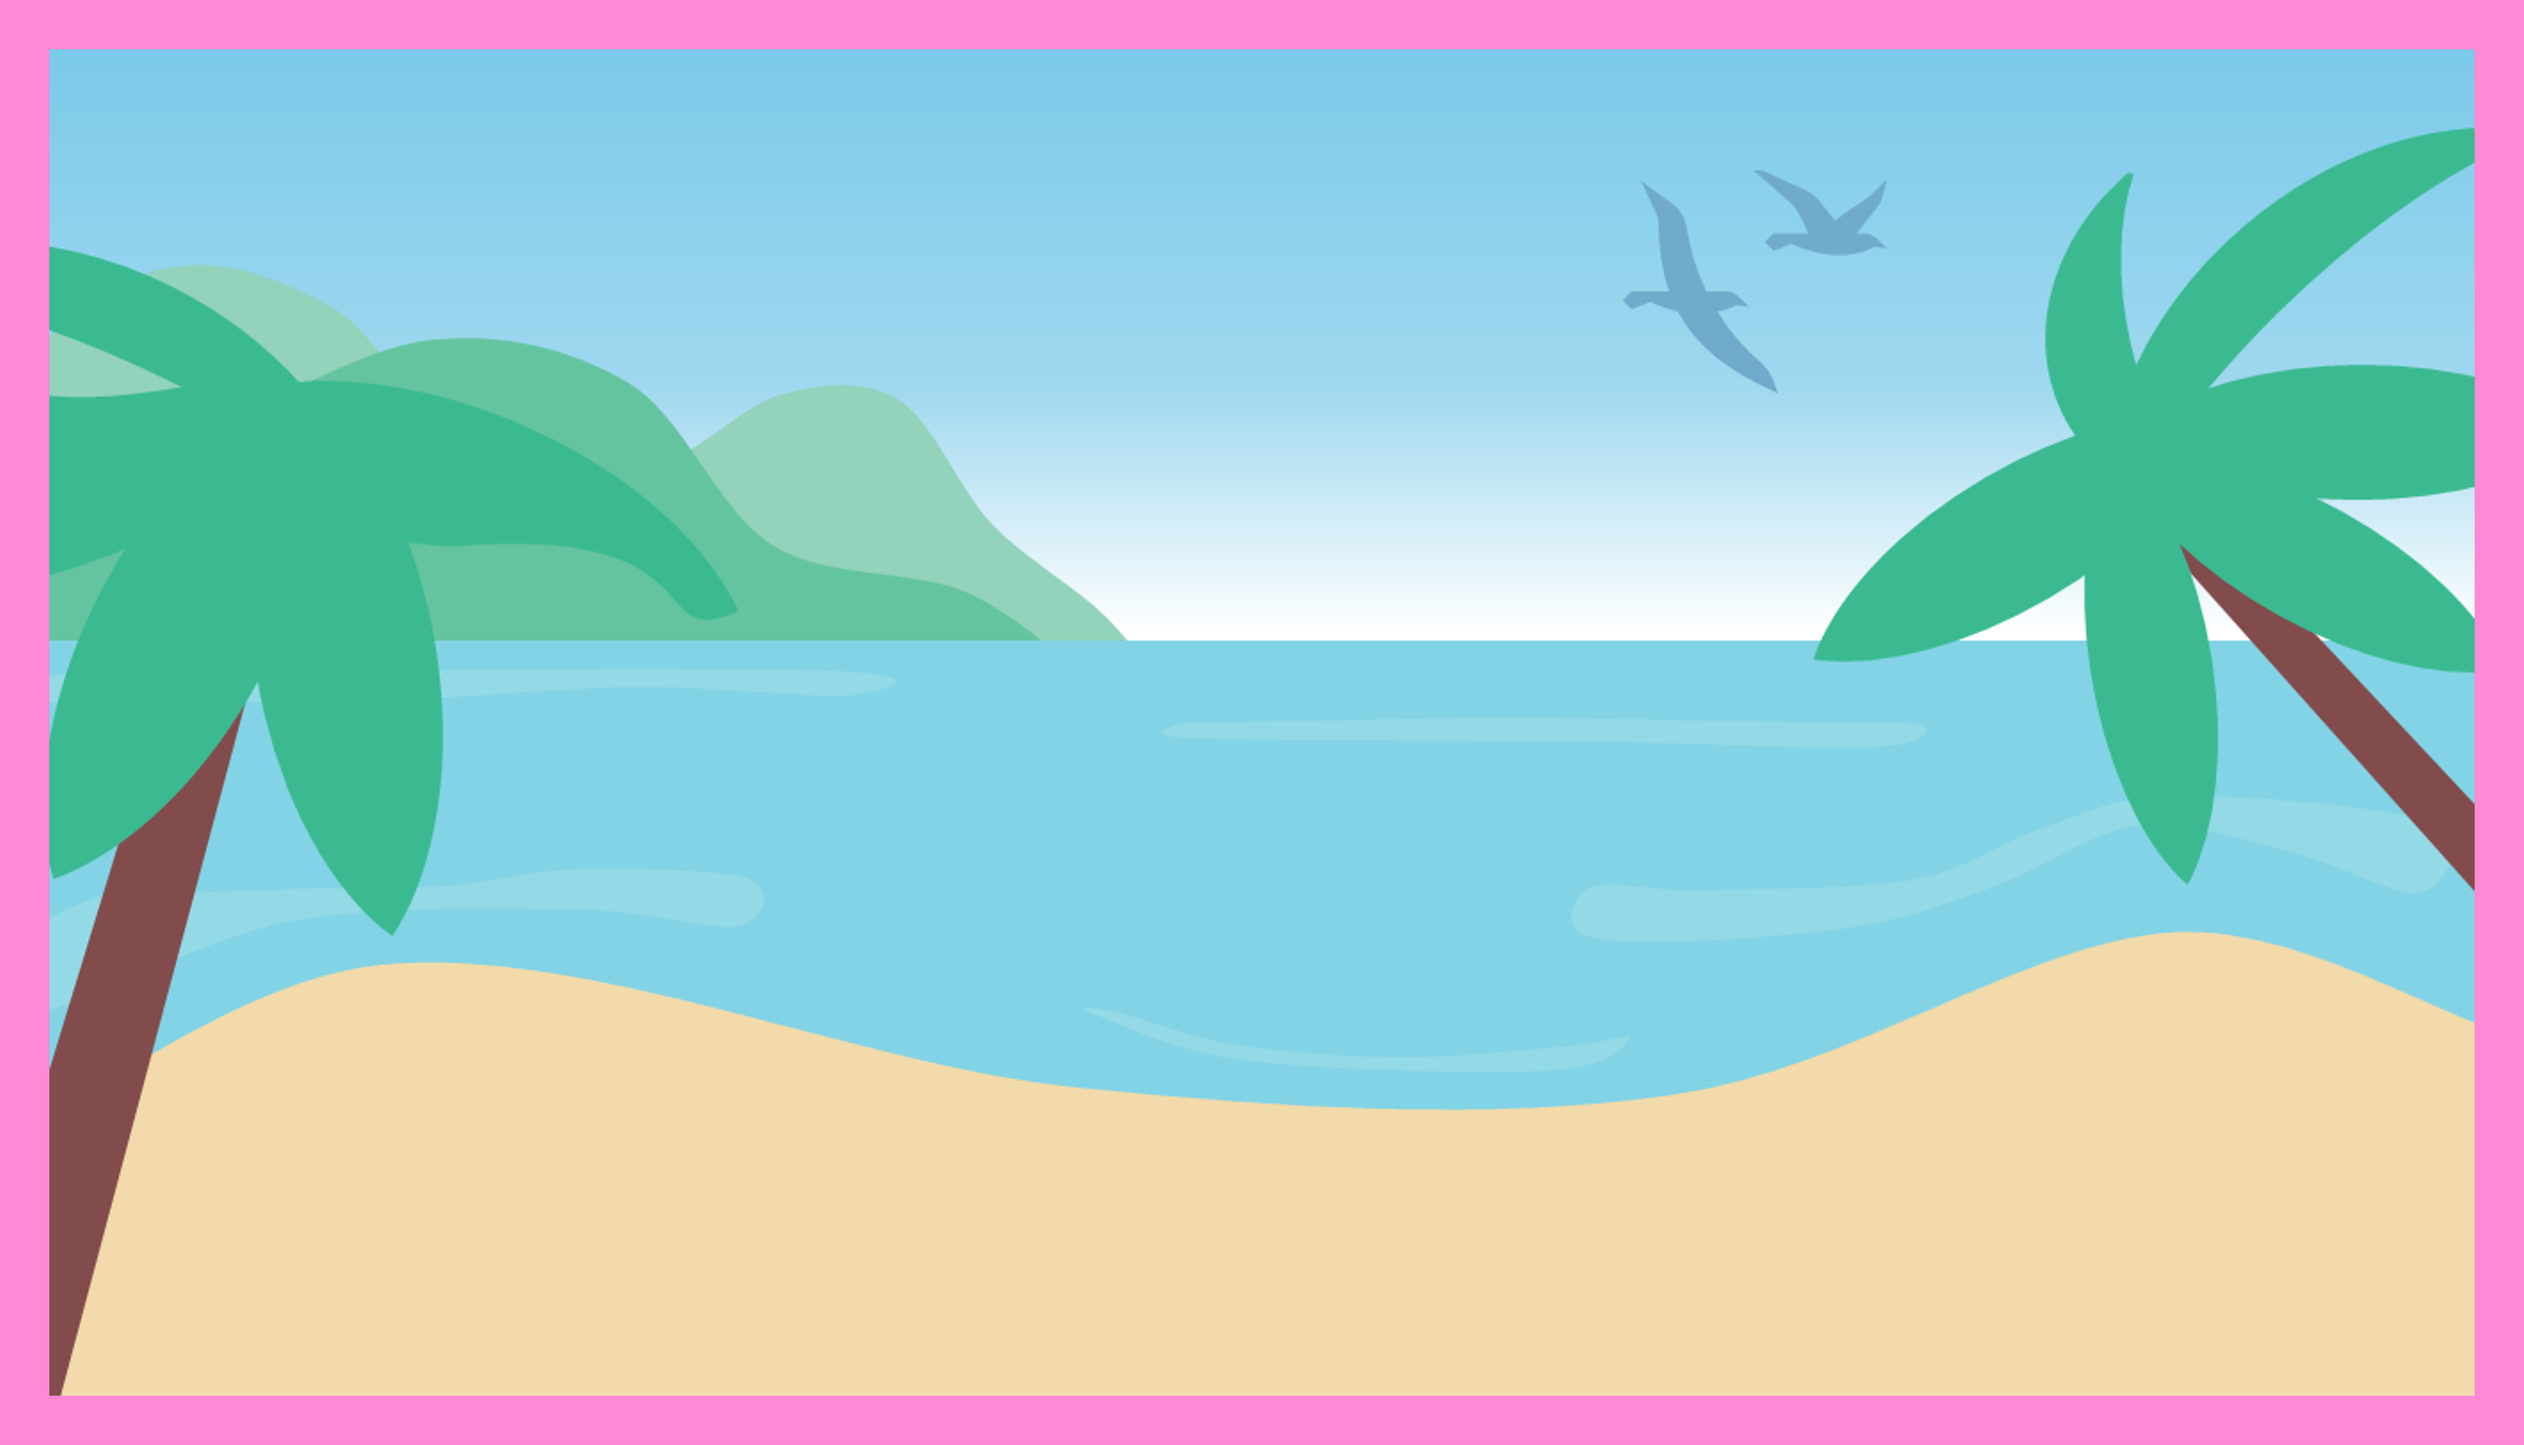
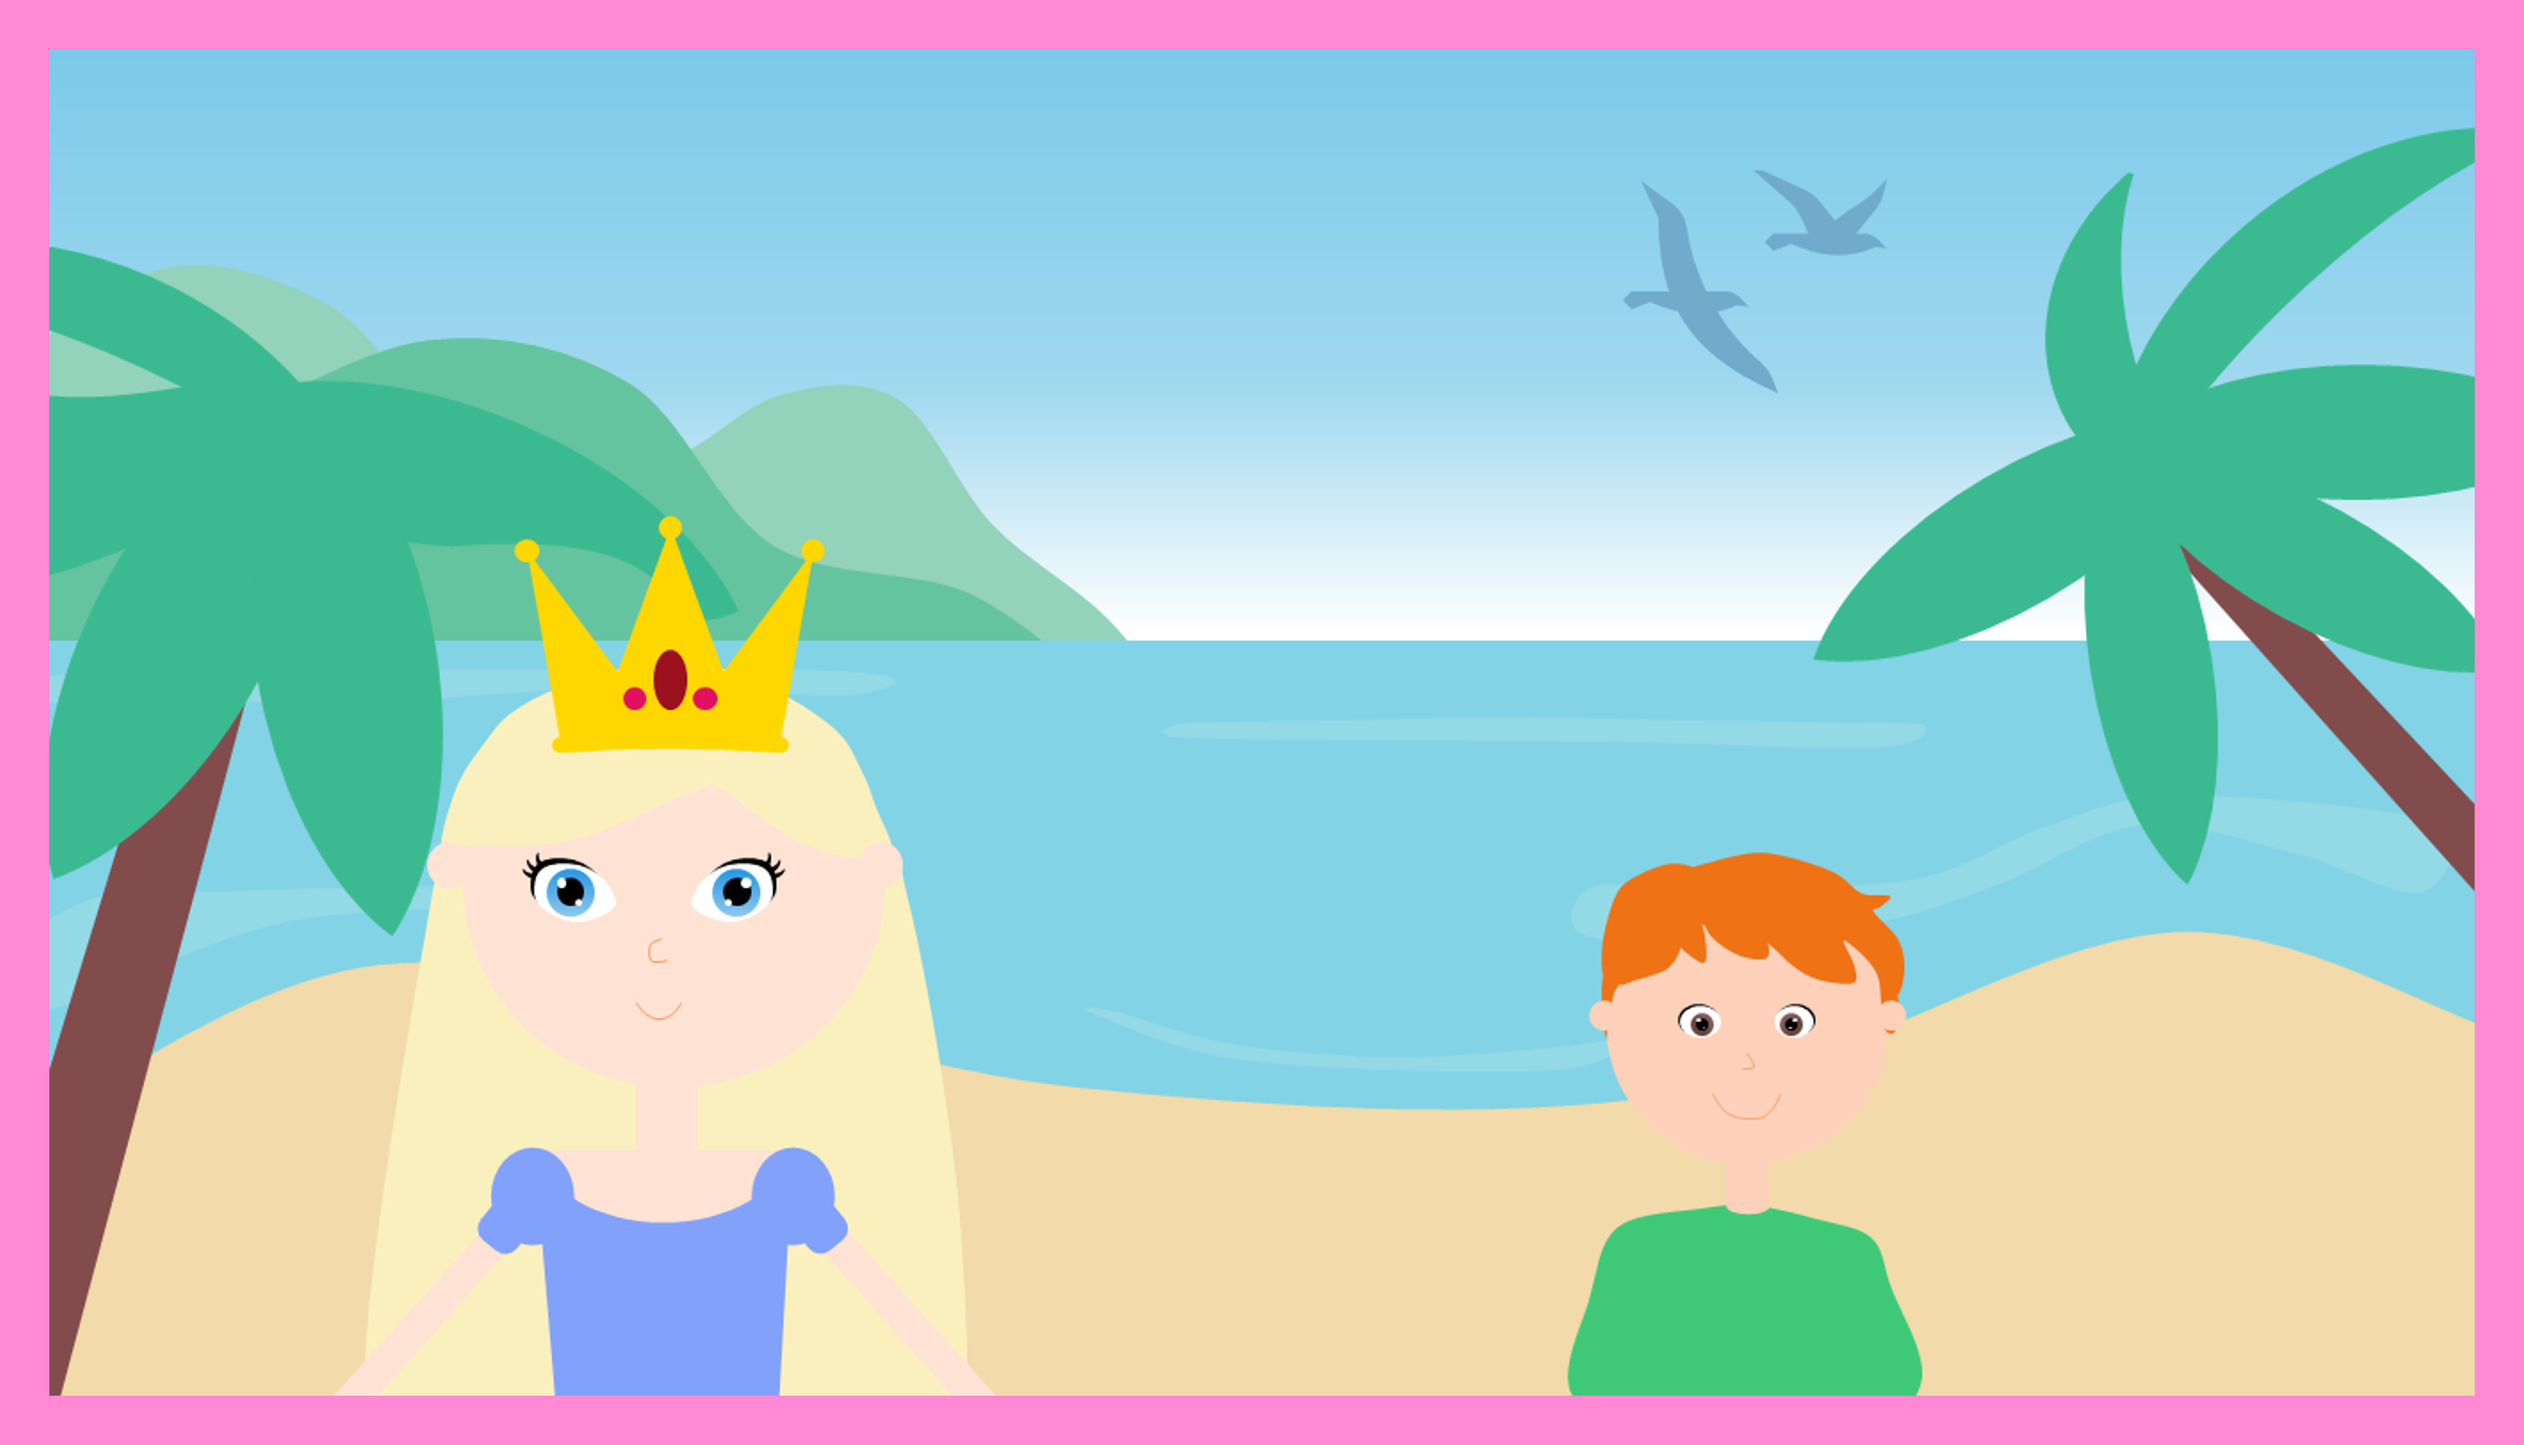
added more functions and images

Changed region(s): [[0.1239, 0.3409, 0.4027, 0.9916], [0.6195, 0.5888, 0.7744, 0.7747], [0.6195, 0.8367, 0.7744, 0.9916]]

diff --git a/main.js b/main.js
@@ -9,7 +9,7 @@ let secondButton;
 
 let playerName;
 let hasSnorkelBeenChoosen = false;
-let hasSpadeBeenChoosen = false;
+let hasBucketBeenChoosen = false;
 
 function main() {
     startOfGame();
@@ -31,9 +31,8 @@ function startOfGame() {
     buttonToSave.addEventListener('click', savePlayerName);
 
     const buttonToStart = document.getElementById("startbutton");
-    buttonToStart.textContent = "STARTA";
+    buttonToStart.textContent = "Start";
     buttonToStart.addEventListener('click', startFirstGameScene);
-
 
     const buttons = document.querySelector(".buttoncontent");
     buttons.style.display = "none";
@@ -68,6 +67,7 @@ function startFirstGameScene() {
 
 }
 
+// strand scenerna
 function startFirstBeachScene() {
     storyText.textContent = "Påväg till stranden så såg hon två föremål i vägkanten, en hink och ett cyklop. Vilket föremål tycker du att hon ska ta upp? Ditt val kan påverka hur prinsessan " + playerName + "s dag blir.";
 
@@ -81,6 +81,74 @@ function startFirstBeachScene() {
     img.src = "./images/beachwalk.png";
 }
 
+function startOnTheBeachScene() {
+    if (firstButton.click) {
+        hasBucketBeenChoosen === true;
+        console.log("mango");
+
+        const img = document.querySelector("img");
+        img.src = "./images/beachbucket.png";
+    }
+    if (secondButton.click) {
+        hasSnorkelBeenChoosen === true;
+        console.log("banan");
+
+        const img = document.querySelector("img");
+        img.src = "./images/beachwater.png";
+    }
+
+    storyText.textContent = "När prinssesan väl har kommit fram till stranden så kommer en liten pojke upp till henne. Han frågar 'Vad gör du här, helt själv på stranden prinsessan " + playerName + "?' Prinsessan svarar att hon rymt från slottet för att hon är så trött på sin pappa kungen och hon ville på ett äventyr.";
+
+    firstButton.textContent = "Lek med pojken";
+    firstButton.onclick = startPlayWithBoyScene;
+
+    secondButton.textContent = "Gå vidare";
+    secondButton.onclick = startAngryKingBeachScene;
+
+    const img = document.querySelector("img");
+    img.src = "./images/beach.png";
+}
+
+function startPlayWithBoyScene() {
+    storyText.textContent = "Den lilla pojken säger att han inte har några leksaker. Då minns du att du ju har FÖREMÅL i din väska, och berättar det för honom.";
+    // Beroende på vilket föremål hon tog upp ska den scenen som korrensponderar med föremålet spelas
+
+    const img = document.querySelector("img");
+    img.src = "./images/beach.png";
+}
+
+function startAngryKingBeachScene() {
+    storyText.textContent = "Kungen kommer och skriker på dig och undrar hur du vågar gå emot honom. Han tar dig genast tillbaka till slottet."
+
+    const img = document.querySelector("img");
+    img.src = "./images/angrykingbeach.png";
+
+    firstButton.textContent = "Avsluta spelet";
+    firstButton.onclick = startOfGame;
+
+    secondButton.textContent = "Spela igen";
+    secondButton.onclick = startFirstGameScene;
+}
+
+function startOnTheBeachSceneSand() {
+    storyText.textContent = "Prinsessan säger till den lilla pojken att hon hittade en hink påvägen hit och att de två kan bygga ett sandslott tillsammans.";
+
+    const continueButton = document.createElement("button");
+    continueButton.textContent = "Fortsätt";
+    continueButton.onclick = startUnderwaterScene;
+}
+
+function startOnTheBeachSceneWater() {
+    storyText.textContent = "Prinsessan säger till den lilla pojken att hon hittade ett cyklop påvägen hit och att de två kan bygga ett sandslott tillsammans.";
+
+    const continueButton = document.createElement("button");
+    continueButton.textContent = "Fortsätt";
+    continueButton.onclick = startSandcastleScene;
+}
+
+
+
+// stad scenerna
 function startFirstTownScene() {
     storyText.textContent = "Prinsessan är påväg in till staden, när hon går på vägen så ser hon något glimra till på marken. Hon böjer sig ner för att kolla vad det är. Det är ett guldmynt. Ska hon ta upp myntet eller ska hon låta det ligga kvar? Vad tycker du?";
 
@@ -95,49 +163,92 @@ function startFirstTownScene() {
 }
 
 
-function startOnTheBeachScene() {
-    storyText.textContent = "När prinssesan väl har kommit fram till stranden så kommer en liten pojke upp till henne. Han frågar 'Vad gör du här, helt själv på stranden prinsessan' " + playerName + "? Prinsessan svarar att hon rymt från slottet för att hon är så trött på sin pappa kungen och hon ville på ett äventyr."
-
-    firstButton.textContent = "Ta upp myntet";
-    firstButton.onclick = startTownSceneCoin;
-
-    secondButton.textContent = "Låt myntet ligga kvar";
-    secondButton.onclick = startTownSceneGuy;
-
-    const img = document.querySelector("img");
-    img.src = "./images/beach.png";
-}
-
-function startTownSceneCoin() {
-    storyText.textContent = "i stan se hon cafe"
-
-    firstButton.textContent = "kaka";
-    firstButton.onclick = startTownSceneCake;
-
-    secondButton.textContent = "muffins";
-    secondButton.onclick = startTownSceneMuffin;
-
-    const img = document.querySelector("img");
-    img.src = "./images/cafe.png";
-}
-
 function startTownSceneGuy() {
-    storyText.textContent = "En kille kommer upp"
+    storyText.textContent = "Killen som jobbar i stallet vid slottet har varit inne i staden för att köpa morötter till hästarna. Han frågar henne om hon vill rymma från slottet och kungen med honom. Vad tycker du att hon ska göra?"
 
     firstButton.textContent = "Följ med honom";
-    firstButton.onclick = startTownSceneCoin;
+    firstButton.onclick = startSunsetScene;
 
     secondButton.textContent = "Stanna kvar";
-    secondButton.onclick = startTownSceneGuy;
+    secondButton.onclick = startAngryKingTownScene;
 
     const img = document.querySelector("img");
     img.src = "./images/townguy.png";
 }
 
+function startSunsetScene() {
+    storyText.textContent = "Prinsessan " + playerName + " och killen går iväg från staden och alla deras problem och lever lyckliga i alla sina dagar"
+
+    const img = document.querySelector("img");
+    img.src = "./images/guysunset.png";
+
+    firstButton.textContent = "Avsluta spelet";
+    firstButton.onclick = startOfGame;
+
+    secondButton.textContent = "Spela igen";
+    secondButton.onclick = startFirstGameScene;
+}
+
+function startAngryKingTownScene() {
+    storyText.textContent = "Kungen kommer och skriker på dig och undrar hur du vågar gå emot honom. Han tar dig genast tillbaka till slottet."
+
+    const img = document.querySelector("img");
+    img.src = "./images/angrykingtown.png";
+
+    firstButton.textContent = "Avsluta spelet";
+    firstButton.onclick = startOfGame;
+
+    secondButton.textContent = "Spela igen";
+    secondButton.onclick = startFirstGameScene;
+}
+
+
+function startTownSceneCoin() {
+    storyText.textContent = "Väl inne i stan ser prinsessan " + playerName + " ett cafe som hon väljer att gå in på"
+
+    const continueButton = document.createElement("button");
+    continueButton.textContent = "Fortsätt";
+    continueButton.onclick = startInsideCafeScene;
+
+    const img = document.querySelector("img");
+    img.src = "./images/cafe.png";
+}
+
+function startInsideCafeScene() {
+    storyText.textContent = "Inne på cafeet funderar hon på vad hon ska köpa. En tårtbit eller en  muffins. Vad tycker du?"
+
+    firstButton.textContent = "Ät tårtbiten";
+    firstButton.onclick = startTownSceneMuffin;
+
+    secondButton.textContent = "Ät muffinsen";
+    secondButton.onclick = startTownSceneCake;
+
+    const img = document.querySelector("img");
+    img.src = "./images/insidecafe.png";
+}
+
 function startTownSceneMuffin() {
-    // bla
+    storyText.textContent = "Du väljer att äta en muffins men efter ditt första bett faller du till marken och slutar andas. Någon har förgiftat dig. Du dog."
+
+    const img = document.querySelector("img");
+    img.src = "./images/cupcake.png";
+
+    firstButton.textContent = "Avsluta spelet";
+    firstButton.onclick = startOfGame;
+
+    secondButton.textContent = "Spela igen";
+    secondButton.onclick = startFirstGameScene;
 }
 
 function startTownSceneCake() {
+    storyText.textContent = "Prinsessan väljer att äta en tårtbit, hon njuter av denna delikatess och känner sig sedan nöjd med sitt äventyr och går tillbaka till slottet."
 
+    const img = document.querySelector("img");
+    img.src = "./images/cake.png";
+
+    firstButton.textContent = "Avsluta spelet";
+    firstButton.onclick = startOfGame;
+
+    secondButton.textContent = "Spela igen";
+    secondButton.onclick = startFirstGameScene;
 }
